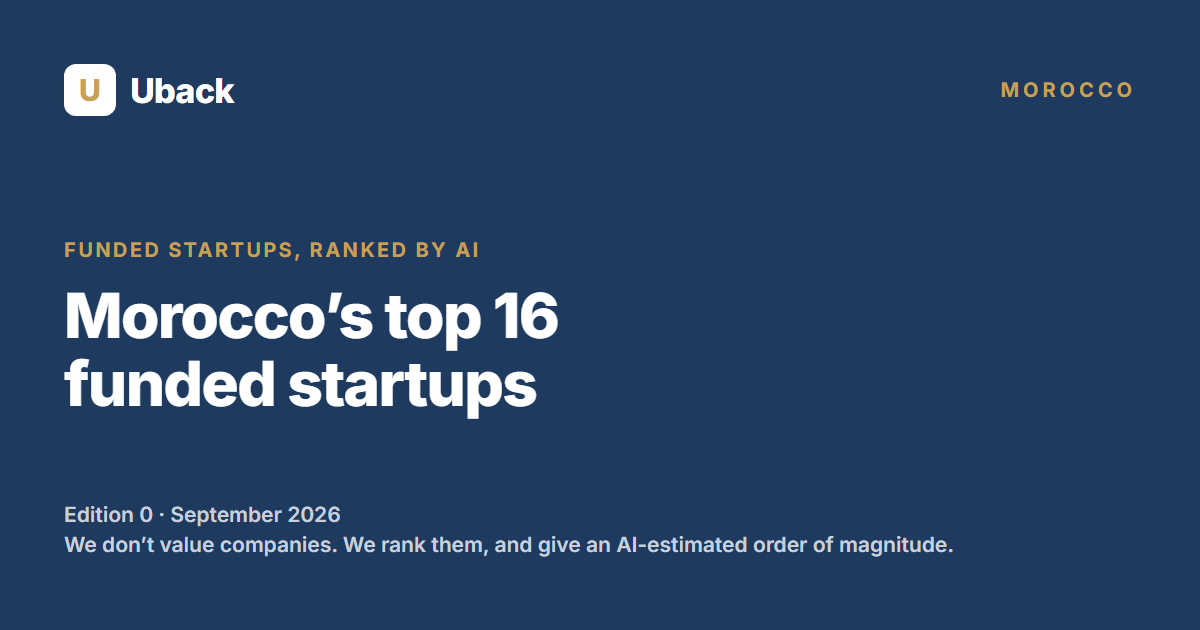
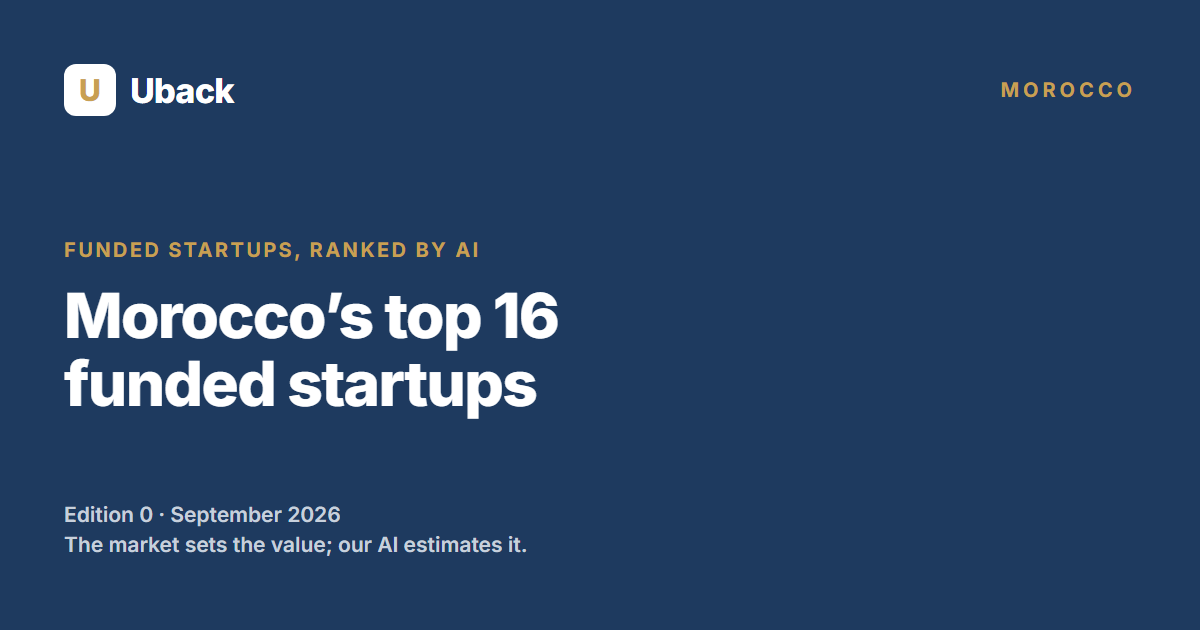
Pages pays : The market sets the value; our AI estimates it (FR : Le marche fixe la valeur ; notre IA l estime), textes, meta, JSON-LD et images de partage

Changed region(s): [[0.0308, 0.8444, 0.8017, 0.8746]]

diff --git a/ma/fr/index.html b/ma/fr/index.html
@@ -4,7 +4,7 @@
 <meta charset="utf-8">
 <meta name="viewport" content="width=device-width, initial-scale=1">
 <title>Top 16 des startups marocaines les mieux valorisées – Septembre 2026 | Uback Maroc</title>
-<meta name="description" content="Classement trimestriel des startups marocaines non cotées ayant déjà levé des fonds, établi par IA à partir d&#x27;informations publiques. Uback ne valorise pas les sociétés : il les classe, et indique un ordre de grandeur estimé par IA.">
+<meta name="description" content="Classement trimestriel des startups marocaines non cotées ayant déjà levé des fonds, établi par IA à partir d&#x27;informations publiques. Le marché fixe la valeur ; notre IA l’estime.">
 <link rel="canonical" href="https://uback.com/ma/fr/">
 <link rel="alternate" hreflang="en" href="https://uback.com/ma/">
 <link rel="alternate" hreflang="fr" href="https://uback.com/ma/fr/">
@@ -12,9 +12,9 @@
 <meta property="og:type" content="website">
 <meta property="og:site_name" content="Uback">
 <meta property="og:title" content="Top 16 des startups marocaines les mieux valorisées – Septembre 2026 | Uback Maroc">
-<meta property="og:description" content="Classement trimestriel des startups marocaines non cotées ayant déjà levé des fonds, établi par IA à partir d&#x27;informations publiques. Uback ne valorise pas les sociétés : il les classe, et indique un ordre de grandeur estimé par IA.">
+<meta property="og:description" content="Classement trimestriel des startups marocaines non cotées ayant déjà levé des fonds, établi par IA à partir d&#x27;informations publiques. Le marché fixe la valeur ; notre IA l’estime.">
 <meta property="og:url" content="https://uback.com/ma/fr/">
-<meta property="og:image" content="https://uback.com/ma/assets/og-image.png?v=4">
+<meta property="og:image" content="https://uback.com/ma/assets/og-image.png?v=5">
 <meta property="og:locale" content="fr_FR">
 <meta name="twitter:card" content="summary_large_image">
 <link rel="icon" href="/ma/assets/favicon.svg" type="image/svg+xml">
@@ -23,7 +23,7 @@
 <link rel="preconnect" href="https://fonts.gstatic.com" crossorigin>
 <link href="https://fonts.googleapis.com/css2?family=Inter:wght@400;500;600;700;800&display=swap" rel="stylesheet">
 <link rel="stylesheet" href="/ma/assets/style.css?v=9ff4314a">
-<script type="application/ld+json">{"@context": "https://schema.org", "@type": "ItemList", "name": "Les 16 startups marocaines les mieux valorisées – Septembre 2026", "description": "Classement trimestriel Uback des startups marocaines, établi par IA à partir d'informations publiques. Uback ne valorise pas les sociétés : il les classe, et indique un ordre de grandeur estimé par IA.", "itemListOrder": "https://schema.org/ItemListOrderDescending", "itemListElement": [{"@type": "ListItem", "position": 1, "name": "Nuitée", "url": "https://nuitee.com"}, {"@type": "ListItem", "position": 2, "name": "Yakeey", "url": "https://yakeey.com"}, {"@type": "ListItem", "position": 3, "name": "Chari", "url": "https://chari.ma"}, {"@type": "ListItem", "position": 4, "name": "ORA Technologies", "url": "https://oratechnologies.ma"}, {"@type": "ListItem", "position": 5, "name": "YoLa Fresh", "url": "https://yolafresh.com"}, {"@type": "ListItem", "position": 6, "name": "Davis AI", "url": "https://meetdavis.com"}, {"@type": "ListItem", "position": 7, "name": "Agenz", "url": "https://agenz.ma"}, {"@type": "ListItem", "position": 8, "name": "PayTic", "url": "https://paytic.com"}, {"@type": "ListItem", "position": 9, "name": "WafR", "url": "https://wafr.ma"}, {"@type": "ListItem", "position": 10, "name": "Freterium", "url": "https://freterium.com"}, {"@type": "ListItem", "position": 11, "name": "CloudFret", "url": "https://cloudfret.com"}, {"@type": "ListItem", "position": 12, "name": "Enakl", "url": "https://enakl.com"}, {"@type": "ListItem", "position": 13, "name": "Woliz", "url": "https://woliz.ma"}, {"@type": "ListItem", "position": 14, "name": "GoSwap", "url": "https://goswap.ma"}, {"@type": "ListItem", "position": 15, "name": "z.systems", "url": "https://z.systems"}, {"@type": "ListItem", "position": 16, "name": "Terraa", "url": "https://terraa.ma"}]}</script>
+<script type="application/ld+json">{"@context": "https://schema.org", "@type": "ItemList", "name": "Les 16 startups marocaines les mieux valorisées – Septembre 2026", "description": "Classement trimestriel Uback des startups marocaines, établi par IA à partir d'informations publiques. Le marché fixe la valeur ; notre IA l’estime.", "itemListOrder": "https://schema.org/ItemListOrderDescending", "itemListElement": [{"@type": "ListItem", "position": 1, "name": "Nuitée", "url": "https://nuitee.com"}, {"@type": "ListItem", "position": 2, "name": "Yakeey", "url": "https://yakeey.com"}, {"@type": "ListItem", "position": 3, "name": "Chari", "url": "https://chari.ma"}, {"@type": "ListItem", "position": 4, "name": "ORA Technologies", "url": "https://oratechnologies.ma"}, {"@type": "ListItem", "position": 5, "name": "YoLa Fresh", "url": "https://yolafresh.com"}, {"@type": "ListItem", "position": 6, "name": "Davis AI", "url": "https://meetdavis.com"}, {"@type": "ListItem", "position": 7, "name": "Agenz", "url": "https://agenz.ma"}, {"@type": "ListItem", "position": 8, "name": "PayTic", "url": "https://paytic.com"}, {"@type": "ListItem", "position": 9, "name": "WafR", "url": "https://wafr.ma"}, {"@type": "ListItem", "position": 10, "name": "Freterium", "url": "https://freterium.com"}, {"@type": "ListItem", "position": 11, "name": "CloudFret", "url": "https://cloudfret.com"}, {"@type": "ListItem", "position": 12, "name": "Enakl", "url": "https://enakl.com"}, {"@type": "ListItem", "position": 13, "name": "Woliz", "url": "https://woliz.ma"}, {"@type": "ListItem", "position": 14, "name": "GoSwap", "url": "https://goswap.ma"}, {"@type": "ListItem", "position": 15, "name": "z.systems", "url": "https://z.systems"}, {"@type": "ListItem", "position": 16, "name": "Terraa", "url": "https://terraa.ma"}]}</script>
 </head>
 <body>
 <a class="skip" href="#main">Aller au contenu</a>
@@ -55,7 +55,7 @@
     <div>
       <div class="kicker">Funded startups, ranked by AI</div>
       <h1>Les 16 startups marocaines les mieux valorisées</h1>
-      <p class="lead">Un classement trimestriel des startups marocaines non cotées ayant déjà levé des fonds, établi par intelligence artificielle à partir d’informations publiques. Uback ne valorise pas les sociétés : il les classe, et indique un ordre de grandeur estimé par IA.</p>
+      <p class="lead">Un classement trimestriel des startups marocaines non cotées ayant déjà levé des fonds, établi par intelligence artificielle à partir d’informations publiques. Le marché fixe la valeur ; notre IA l’estime.</p>
       <div class="meta">
         <span class="tag beta">Édition 0 – bêta · Septembre 2026</span>
         <span class="tag cad">Trimestriel</span><span>Prochaine édition : 15 novembre 2026</span><span>·</span>

diff --git a/ma/index.html b/ma/index.html
@@ -4,7 +4,7 @@
 <meta charset="utf-8">
 <meta name="viewport" content="width=device-width, initial-scale=1">
 <title>Morocco’s top 16 funded startups – September 2026 | Uback Morocco</title>
-<meta name="description" content="Quarterly ranking of non-listed Moroccan startups that have already raised funds, established by AI from public information. We don’t value companies. We rank them, and give an AI-estimated order of magnitude.">
+<meta name="description" content="Quarterly ranking of non-listed Moroccan startups that have already raised funds, established by AI from public information. The market sets the value; our AI estimates it.">
 <link rel="canonical" href="https://uback.com/ma/">
 <link rel="alternate" hreflang="en" href="https://uback.com/ma/">
 <link rel="alternate" hreflang="fr" href="https://uback.com/ma/fr/">
@@ -12,9 +12,9 @@
 <meta property="og:type" content="website">
 <meta property="og:site_name" content="Uback">
 <meta property="og:title" content="Morocco’s top 16 funded startups – September 2026 | Uback Morocco">
-<meta property="og:description" content="Quarterly ranking of non-listed Moroccan startups that have already raised funds, established by AI from public information. We don’t value companies. We rank them, and give an AI-estimated order of magnitude.">
+<meta property="og:description" content="Quarterly ranking of non-listed Moroccan startups that have already raised funds, established by AI from public information. The market sets the value; our AI estimates it.">
 <meta property="og:url" content="https://uback.com/ma/">
-<meta property="og:image" content="https://uback.com/ma/assets/og-image-en.png?v=2">
+<meta property="og:image" content="https://uback.com/ma/assets/og-image-en.png?v=3">
 <meta property="og:locale" content="en_US">
 <meta name="twitter:card" content="summary_large_image">
 <link rel="icon" href="/ma/assets/favicon.svg" type="image/svg+xml">
@@ -23,7 +23,7 @@
 <link rel="preconnect" href="https://fonts.gstatic.com" crossorigin>
 <link href="https://fonts.googleapis.com/css2?family=Inter:wght@400;500;600;700;800&display=swap" rel="stylesheet">
 <link rel="stylesheet" href="/ma/assets/style.css?v=9ff4314a">
-<script type="application/ld+json">{"@context": "https://schema.org", "@type": "ItemList", "name": "Morocco’s top 16 funded startups – September 2026", "description": "Uback quarterly ranking of non-listed Moroccan startups, established by AI from public information. We don’t value companies. We rank them, and give an AI-estimated order of magnitude.", "itemListOrder": "https://schema.org/ItemListOrderDescending", "itemListElement": [{"@type": "ListItem", "position": 1, "name": "Nuitée", "url": "https://nuitee.com"}, {"@type": "ListItem", "position": 2, "name": "Yakeey", "url": "https://yakeey.com"}, {"@type": "ListItem", "position": 3, "name": "Chari", "url": "https://chari.ma"}, {"@type": "ListItem", "position": 4, "name": "ORA Technologies", "url": "https://oratechnologies.ma"}, {"@type": "ListItem", "position": 5, "name": "YoLa Fresh", "url": "https://yolafresh.com"}, {"@type": "ListItem", "position": 6, "name": "Davis AI", "url": "https://meetdavis.com"}, {"@type": "ListItem", "position": 7, "name": "Agenz", "url": "https://agenz.ma"}, {"@type": "ListItem", "position": 8, "name": "PayTic", "url": "https://paytic.com"}, {"@type": "ListItem", "position": 9, "name": "WafR", "url": "https://wafr.ma"}, {"@type": "ListItem", "position": 10, "name": "Freterium", "url": "https://freterium.com"}, {"@type": "ListItem", "position": 11, "name": "CloudFret", "url": "https://cloudfret.com"}, {"@type": "ListItem", "position": 12, "name": "Enakl", "url": "https://enakl.com"}, {"@type": "ListItem", "position": 13, "name": "Woliz", "url": "https://woliz.ma"}, {"@type": "ListItem", "position": 14, "name": "GoSwap", "url": "https://goswap.ma"}, {"@type": "ListItem", "position": 15, "name": "z.systems", "url": "https://z.systems"}, {"@type": "ListItem", "position": 16, "name": "Terraa", "url": "https://terraa.ma"}]}</script>
+<script type="application/ld+json">{"@context": "https://schema.org", "@type": "ItemList", "name": "Morocco’s top 16 funded startups – September 2026", "description": "Uback quarterly ranking of non-listed Moroccan startups, established by AI from public information. The market sets the value; our AI estimates it.", "itemListOrder": "https://schema.org/ItemListOrderDescending", "itemListElement": [{"@type": "ListItem", "position": 1, "name": "Nuitée", "url": "https://nuitee.com"}, {"@type": "ListItem", "position": 2, "name": "Yakeey", "url": "https://yakeey.com"}, {"@type": "ListItem", "position": 3, "name": "Chari", "url": "https://chari.ma"}, {"@type": "ListItem", "position": 4, "name": "ORA Technologies", "url": "https://oratechnologies.ma"}, {"@type": "ListItem", "position": 5, "name": "YoLa Fresh", "url": "https://yolafresh.com"}, {"@type": "ListItem", "position": 6, "name": "Davis AI", "url": "https://meetdavis.com"}, {"@type": "ListItem", "position": 7, "name": "Agenz", "url": "https://agenz.ma"}, {"@type": "ListItem", "position": 8, "name": "PayTic", "url": "https://paytic.com"}, {"@type": "ListItem", "position": 9, "name": "WafR", "url": "https://wafr.ma"}, {"@type": "ListItem", "position": 10, "name": "Freterium", "url": "https://freterium.com"}, {"@type": "ListItem", "position": 11, "name": "CloudFret", "url": "https://cloudfret.com"}, {"@type": "ListItem", "position": 12, "name": "Enakl", "url": "https://enakl.com"}, {"@type": "ListItem", "position": 13, "name": "Woliz", "url": "https://woliz.ma"}, {"@type": "ListItem", "position": 14, "name": "GoSwap", "url": "https://goswap.ma"}, {"@type": "ListItem", "position": 15, "name": "z.systems", "url": "https://z.systems"}, {"@type": "ListItem", "position": 16, "name": "Terraa", "url": "https://terraa.ma"}]}</script>
 </head>
 <body>
 <a class="skip" href="#main">Skip to content</a>
@@ -55,7 +55,7 @@
     <div>
       <div class="kicker">Funded startups, ranked by AI</div>
       <h1>Morocco’s top 16 funded startups</h1>
-      <p class="lead">A quarterly ranking of non-listed Moroccan startups that have already raised funds, established by artificial intelligence from public information. We don’t value companies. We rank them, and give an AI-estimated order of magnitude.</p>
+      <p class="lead">A quarterly ranking of non-listed Moroccan startups that have already raised funds, established by artificial intelligence from public information. The market sets the value; our AI estimates it.</p>
       <div class="meta">
         <span class="tag beta">Edition 0 – beta · September 2026</span>
         <span class="tag cad">Quarterly</span><span>Next edition: November 15, 2026</span><span>·</span>

diff --git a/pl/index.html b/pl/index.html
@@ -4,14 +4,14 @@
 <meta charset="utf-8">
 <meta name="viewport" content="width=device-width, initial-scale=1">
 <title>Poland’s top 15 funded startups – September 2026 | Uback Poland</title>
-<meta name="description" content="Quarterly ranking of non-listed Polish startups that have already raised funds, established by AI from public information. We don’t value companies. We rank them, and give an AI-estimated order of magnitude.">
+<meta name="description" content="Quarterly ranking of non-listed Polish startups that have already raised funds, established by AI from public information. The market sets the value; our AI estimates it.">
 <link rel="canonical" href="https://uback.com/pl/">
 <meta property="og:type" content="website">
 <meta property="og:site_name" content="Uback">
 <meta property="og:title" content="Poland’s top 15 funded startups – September 2026 | Uback Poland">
-<meta property="og:description" content="Quarterly ranking of non-listed Polish startups that have already raised funds, established by AI from public information. We don’t value companies. We rank them, and give an AI-estimated order of magnitude.">
+<meta property="og:description" content="Quarterly ranking of non-listed Polish startups that have already raised funds, established by AI from public information. The market sets the value; our AI estimates it.">
 <meta property="og:url" content="https://uback.com/pl/">
-<meta property="og:image" content="https://uback.com/pl/assets/og-image.png?v=2">
+<meta property="og:image" content="https://uback.com/pl/assets/og-image.png?v=3">
 <meta property="og:locale" content="en_US">
 <meta name="twitter:card" content="summary_large_image">
 <link rel="icon" href="/pl/assets/favicon.svg" type="image/svg+xml">
@@ -20,7 +20,7 @@
 <link rel="preconnect" href="https://fonts.gstatic.com" crossorigin>
 <link href="https://fonts.googleapis.com/css2?family=Inter:wght@400;500;600;700;800&display=swap" rel="stylesheet">
 <link rel="stylesheet" href="/pl/assets/style.css?v=9ff4314a">
-<script type="application/ld+json">{"@context": "https://schema.org", "@type": "ItemList", "name": "Poland’s top 15 funded startups – September 2026", "description": "Uback quarterly ranking of non-listed Polish startups, established by AI from public information. We don’t value companies. We rank them, and give an AI-estimated order of magnitude.", "itemListOrder": "https://schema.org/ItemListOrderDescending", "itemListElement": [{"@type": "ListItem", "position": 1, "name": "Docplanner", "url": "https://docplanner.com"}, {"@type": "ListItem", "position": 2, "name": "Brainly", "url": "https://brainly.com"}, {"@type": "ListItem", "position": 3, "name": "Viktor", "url": "https://viktor.com"}, {"@type": "ListItem", "position": 4, "name": "Ramp Network", "url": "https://rampnetwork.com"}, {"@type": "ListItem", "position": 5, "name": "Booksy", "url": "https://booksy.com"}, {"@type": "ListItem", "position": 6, "name": "Spacelift", "url": "https://spacelift.io"}, {"@type": "ListItem", "position": 7, "name": "Packhelp", "url": "https://packhelp.com"}, {"@type": "ListItem", "position": 8, "name": "Infermedica", "url": "https://infermedica.com"}, {"@type": "ListItem", "position": 9, "name": "Tylko", "url": "https://tylko.com"}, {"@type": "ListItem", "position": 10, "name": "Tidio", "url": "https://tidio.com"}, {"@type": "ListItem", "position": 11, "name": "Jutro Medical", "url": "https://jutromedical.com"}, {"@type": "ListItem", "position": 12, "name": "Nomagic", "url": "https://nomagic.ai"}, {"@type": "ListItem", "position": 13, "name": "Alokai", "url": "https://alokai.com"}, {"@type": "ListItem", "position": 14, "name": "Cosmose AI", "url": "https://cosmose.co"}, {"@type": "ListItem", "position": 15, "name": "Synerise", "url": "https://synerise.com"}]}</script>
+<script type="application/ld+json">{"@context": "https://schema.org", "@type": "ItemList", "name": "Poland’s top 15 funded startups – September 2026", "description": "Uback quarterly ranking of non-listed Polish startups, established by AI from public information. The market sets the value; our AI estimates it.", "itemListOrder": "https://schema.org/ItemListOrderDescending", "itemListElement": [{"@type": "ListItem", "position": 1, "name": "Docplanner", "url": "https://docplanner.com"}, {"@type": "ListItem", "position": 2, "name": "Brainly", "url": "https://brainly.com"}, {"@type": "ListItem", "position": 3, "name": "Viktor", "url": "https://viktor.com"}, {"@type": "ListItem", "position": 4, "name": "Ramp Network", "url": "https://rampnetwork.com"}, {"@type": "ListItem", "position": 5, "name": "Booksy", "url": "https://booksy.com"}, {"@type": "ListItem", "position": 6, "name": "Spacelift", "url": "https://spacelift.io"}, {"@type": "ListItem", "position": 7, "name": "Packhelp", "url": "https://packhelp.com"}, {"@type": "ListItem", "position": 8, "name": "Infermedica", "url": "https://infermedica.com"}, {"@type": "ListItem", "position": 9, "name": "Tylko", "url": "https://tylko.com"}, {"@type": "ListItem", "position": 10, "name": "Tidio", "url": "https://tidio.com"}, {"@type": "ListItem", "position": 11, "name": "Jutro Medical", "url": "https://jutromedical.com"}, {"@type": "ListItem", "position": 12, "name": "Nomagic", "url": "https://nomagic.ai"}, {"@type": "ListItem", "position": 13, "name": "Alokai", "url": "https://alokai.com"}, {"@type": "ListItem", "position": 14, "name": "Cosmose AI", "url": "https://cosmose.co"}, {"@type": "ListItem", "position": 15, "name": "Synerise", "url": "https://synerise.com"}]}</script>
 </head>
 <body>
 <a class="skip" href="#main">Skip to content</a>
@@ -52,7 +52,7 @@
     <div>
       <div class="kicker">Funded startups, ranked by AI</div>
       <h1>Poland’s top 15 funded startups</h1>
-      <p class="lead">A quarterly ranking of non-listed Polish startups that have already raised funds, established by artificial intelligence from public information. We don’t value companies. We rank them, and give an AI-estimated order of magnitude.</p>
+      <p class="lead">A quarterly ranking of non-listed Polish startups that have already raised funds, established by artificial intelligence from public information. The market sets the value; our AI estimates it.</p>
       <div class="meta">
         <span class="tag beta">Edition 0 – beta · September 2026</span>
         <span class="tag cad">Quarterly</span><span>Next edition: December 15, 2026</span><span>·</span>

diff --git a/vn/index.html b/vn/index.html
@@ -4,14 +4,14 @@
 <meta charset="utf-8">
 <meta name="viewport" content="width=device-width, initial-scale=1">
 <title>Vietnam’s top 14 funded startups – September 2026 | Uback Vietnam</title>
-<meta name="description" content="Quarterly ranking of non-listed Vietnamese startups that have already raised funds, established by AI from public information. We don’t value companies. We rank them, and give an AI-estimated order of magnitude.">
+<meta name="description" content="Quarterly ranking of non-listed Vietnamese startups that have already raised funds, established by AI from public information. The market sets the value; our AI estimates it.">
 <link rel="canonical" href="https://uback.com/vn/">
 <meta property="og:type" content="website">
 <meta property="og:site_name" content="Uback">
 <meta property="og:title" content="Vietnam’s top 14 funded startups – September 2026 | Uback Vietnam">
-<meta property="og:description" content="Quarterly ranking of non-listed Vietnamese startups that have already raised funds, established by AI from public information. We don’t value companies. We rank them, and give an AI-estimated order of magnitude.">
+<meta property="og:description" content="Quarterly ranking of non-listed Vietnamese startups that have already raised funds, established by AI from public information. The market sets the value; our AI estimates it.">
 <meta property="og:url" content="https://uback.com/vn/">
-<meta property="og:image" content="https://uback.com/vn/assets/og-image.png?v=3">
+<meta property="og:image" content="https://uback.com/vn/assets/og-image.png?v=4">
 <meta property="og:locale" content="en_US">
 <meta name="twitter:card" content="summary_large_image">
 <link rel="icon" href="/vn/assets/favicon.svg" type="image/svg+xml">
@@ -20,7 +20,7 @@
 <link rel="preconnect" href="https://fonts.gstatic.com" crossorigin>
 <link href="https://fonts.googleapis.com/css2?family=Inter:wght@400;500;600;700;800&display=swap" rel="stylesheet">
 <link rel="stylesheet" href="/vn/assets/style.css?v=9ff4314a">
-<script type="application/ld+json">{"@context": "https://schema.org", "@type": "ItemList", "name": "Vietnam’s top 14 funded startups – September 2026", "description": "Uback quarterly ranking of non-listed Vietnamese startups, established by AI from public information. We don’t value companies. We rank them, and give an AI-estimated order of magnitude.", "itemListOrder": "https://schema.org/ItemListOrderDescending", "itemListElement": [{"@type": "ListItem", "position": 1, "name": "VNLife / VNPay", "url": "https://vnlife.vn"}, {"@type": "ListItem", "position": 2, "name": "MoMo", "url": "https://momo.vn"}, {"@type": "ListItem", "position": 3, "name": "Trusting Social", "url": "https://trustingsocial.com"}, {"@type": "ListItem", "position": 4, "name": "Buymed (thuocsi.vn)", "url": "https://buymed.com"}, {"@type": "ListItem", "position": 5, "name": "OnPoint", "url": "https://onpoint.vn"}, {"@type": "ListItem", "position": 6, "name": "KiotViet", "url": "https://kiotviet.vn"}, {"@type": "ListItem", "position": 7, "name": "Be Group", "url": "https://be.com.vn"}, {"@type": "ListItem", "position": 8, "name": "Techcoop", "url": "https://techcoop.com"}, {"@type": "ListItem", "position": 9, "name": "Finhay", "url": "https://finhay.com.vn"}, {"@type": "ListItem", "position": 10, "name": "Coolmate", "url": "https://coolmate.me"}, {"@type": "ListItem", "position": 11, "name": "Jio Health", "url": "https://jiohealth.com"}, {"@type": "ListItem", "position": 12, "name": "Edupia", "url": "https://edupia.vn"}, {"@type": "ListItem", "position": 13, "name": "AI Hay", "url": "https://aihay.vn"}, {"@type": "ListItem", "position": 14, "name": "Dat Bike", "url": "https://dat.bike"}]}</script>
+<script type="application/ld+json">{"@context": "https://schema.org", "@type": "ItemList", "name": "Vietnam’s top 14 funded startups – September 2026", "description": "Uback quarterly ranking of non-listed Vietnamese startups, established by AI from public information. The market sets the value; our AI estimates it.", "itemListOrder": "https://schema.org/ItemListOrderDescending", "itemListElement": [{"@type": "ListItem", "position": 1, "name": "VNLife / VNPay", "url": "https://vnlife.vn"}, {"@type": "ListItem", "position": 2, "name": "MoMo", "url": "https://momo.vn"}, {"@type": "ListItem", "position": 3, "name": "Trusting Social", "url": "https://trustingsocial.com"}, {"@type": "ListItem", "position": 4, "name": "Buymed (thuocsi.vn)", "url": "https://buymed.com"}, {"@type": "ListItem", "position": 5, "name": "OnPoint", "url": "https://onpoint.vn"}, {"@type": "ListItem", "position": 6, "name": "KiotViet", "url": "https://kiotviet.vn"}, {"@type": "ListItem", "position": 7, "name": "Be Group", "url": "https://be.com.vn"}, {"@type": "ListItem", "position": 8, "name": "Techcoop", "url": "https://techcoop.com"}, {"@type": "ListItem", "position": 9, "name": "Finhay", "url": "https://finhay.com.vn"}, {"@type": "ListItem", "position": 10, "name": "Coolmate", "url": "https://coolmate.me"}, {"@type": "ListItem", "position": 11, "name": "Jio Health", "url": "https://jiohealth.com"}, {"@type": "ListItem", "position": 12, "name": "Edupia", "url": "https://edupia.vn"}, {"@type": "ListItem", "position": 13, "name": "AI Hay", "url": "https://aihay.vn"}, {"@type": "ListItem", "position": 14, "name": "Dat Bike", "url": "https://dat.bike"}]}</script>
 </head>
 <body>
 <a class="skip" href="#main">Skip to content</a>
@@ -52,7 +52,7 @@
     <div>
       <div class="kicker">Funded startups, ranked by AI</div>
       <h1>Vietnam’s top 14 funded startups</h1>
-      <p class="lead">A quarterly ranking of non-listed Vietnamese startups that have already raised funds, established by artificial intelligence from public information. We don’t value companies. We rank them, and give an AI-estimated order of magnitude.</p>
+      <p class="lead">A quarterly ranking of non-listed Vietnamese startups that have already raised funds, established by artificial intelligence from public information. The market sets the value; our AI estimates it.</p>
       <div class="meta">
         <span class="tag beta">Edition 0 – beta · September 2026</span>
         <span class="tag cad">Quarterly</span><span>Next edition: October 15, 2026</span><span>·</span>

diff --git a/ma/fr/partenaire.html b/ma/fr/partenaire.html
@@ -14,7 +14,7 @@
 <meta property="og:title" content="Devenir le partenaire exclusif Uback au Maroc | Uback">
 <meta property="og:description" content="Banques d&#x27;affaires, boutiques M&amp;A, conseils agréés : Uback vous apporte des investisseurs étrangers et de la visibilité, en exclusivité par pays.">
 <meta property="og:url" content="https://uback.com/ma/fr/partenaire.html">
-<meta property="og:image" content="https://uback.com/ma/assets/og-image.png?v=4">
+<meta property="og:image" content="https://uback.com/ma/assets/og-image.png?v=5">
 <meta property="og:locale" content="fr_FR">
 <meta name="twitter:card" content="summary_large_image">
 <link rel="icon" href="/ma/assets/favicon.svg" type="image/svg+xml">

diff --git a/ma/partner.html b/ma/partner.html
@@ -14,7 +14,7 @@
 <meta property="og:title" content="Become Uback’s exclusive partner in Morocco | Uback">
 <meta property="og:description" content="Investment banks, M&amp;A boutiques, licensed advisers: Uback brings you foreign investors and visibility, exclusively per country.">
 <meta property="og:url" content="https://uback.com/ma/partner.html">
-<meta property="og:image" content="https://uback.com/ma/assets/og-image-en.png?v=2">
+<meta property="og:image" content="https://uback.com/ma/assets/og-image-en.png?v=3">
 <meta property="og:locale" content="en_US">
 <meta name="twitter:card" content="summary_large_image">
 <link rel="icon" href="/ma/assets/favicon.svg" type="image/svg+xml">

diff --git a/vn/partner.html b/vn/partner.html
@@ -11,7 +11,7 @@
 <meta property="og:title" content="Become Uback’s exclusive partner in Vietnam | Uback">
 <meta property="og:description" content="Investment banks, M&amp;A boutiques, licensed advisers: Uback brings you foreign investors and visibility, exclusively per country.">
 <meta property="og:url" content="https://uback.com/vn/partner.html">
-<meta property="og:image" content="https://uback.com/vn/assets/og-image.png?v=3">
+<meta property="og:image" content="https://uback.com/vn/assets/og-image.png?v=4">
 <meta property="og:locale" content="en_US">
 <meta name="twitter:card" content="summary_large_image">
 <link rel="icon" href="/vn/assets/favicon.svg" type="image/svg+xml">

diff --git a/pl/partner.html b/pl/partner.html
@@ -11,7 +11,7 @@
 <meta property="og:title" content="Become Uback’s exclusive partner in Poland | Uback">
 <meta property="og:description" content="Investment banks, M&amp;A boutiques, licensed advisers: Uback brings you foreign investors and visibility, exclusively per country.">
 <meta property="og:url" content="https://uback.com/pl/partner.html">
-<meta property="og:image" content="https://uback.com/pl/assets/og-image.png?v=2">
+<meta property="og:image" content="https://uback.com/pl/assets/og-image.png?v=3">
 <meta property="og:locale" content="en_US">
 <meta name="twitter:card" content="summary_large_image">
 <link rel="icon" href="/pl/assets/favicon.svg" type="image/svg+xml">

diff --git a/tools/og-image-ma.html b/tools/og-image-ma.html
@@ -19,6 +19,6 @@ h1{position:absolute;left:64px;top:282px;margin:0;font-size:62px;line-height:1.1
 <div class="top"><div class="logo"><span class="u">U</span>Uback</div><div class="market">MAROC</div></div>
 <div class="kicker">Funded startups, ranked by AI</div>
 <h1>Les 16 startups marocaines<br>les mieux valorisées</h1>
-<div class="foot">Édition 0 · Septembre 2026<br>Uback ne valorise pas les sociétés : il les classe, et indique un ordre de grandeur estimé par IA.</div>
+<div class="foot">Édition 0 · Septembre 2026<br>Le marché fixe la valeur ; notre IA l’estime.</div>
 </body>
 </html>

diff --git a/tools/og-image-ma-en.html b/tools/og-image-ma-en.html
@@ -19,6 +19,6 @@ h1{position:absolute;left:64px;top:282px;margin:0;font-size:62px;line-height:1.1
 <div class="top"><div class="logo"><span class="u">U</span>Uback</div><div class="market">MOROCCO</div></div>
 <div class="kicker">Funded startups, ranked by AI</div>
 <h1>Morocco’s top 16<br>funded startups</h1>
-<div class="foot">Edition 0 · September 2026<br>We don’t value companies. We rank them, and give an AI-estimated order of magnitude.</div>
+<div class="foot">Edition 0 · September 2026<br>The market sets the value; our AI estimates it.</div>
 </body>
 </html>

diff --git a/tools/og-image-vn.html b/tools/og-image-vn.html
@@ -19,6 +19,6 @@ h1{position:absolute;left:64px;top:282px;margin:0;font-size:62px;line-height:1.1
 <div class="top"><div class="logo"><span class="u">U</span>Uback</div><div class="market">VIETNAM</div></div>
 <div class="kicker">Funded startups, ranked by AI</div>
 <h1>Vietnam’s top 14<br>funded startups</h1>
-<div class="foot">Edition 0 · September 2026<br>We don’t value companies. We rank them, and give an AI-estimated order of magnitude.</div>
+<div class="foot">Edition 0 · September 2026<br>The market sets the value; our AI estimates it.</div>
 </body>
 </html>

diff --git a/tools/og-image-pl.html b/tools/og-image-pl.html
@@ -19,6 +19,6 @@ h1{position:absolute;left:64px;top:282px;margin:0;font-size:62px;line-height:1.1
 <div class="top"><div class="logo"><span class="u">U</span>Uback</div><div class="market">POLAND</div></div>
 <div class="kicker">Funded startups, ranked by AI</div>
 <h1>Poland’s top 15<br>funded startups</h1>
-<div class="foot">Edition 0 · September 2026<br>We don’t value companies. We rank them, and give an AI-estimated order of magnitude.</div>
+<div class="foot">Edition 0 · September 2026<br>The market sets the value; our AI estimates it.</div>
 </body>
 </html>
